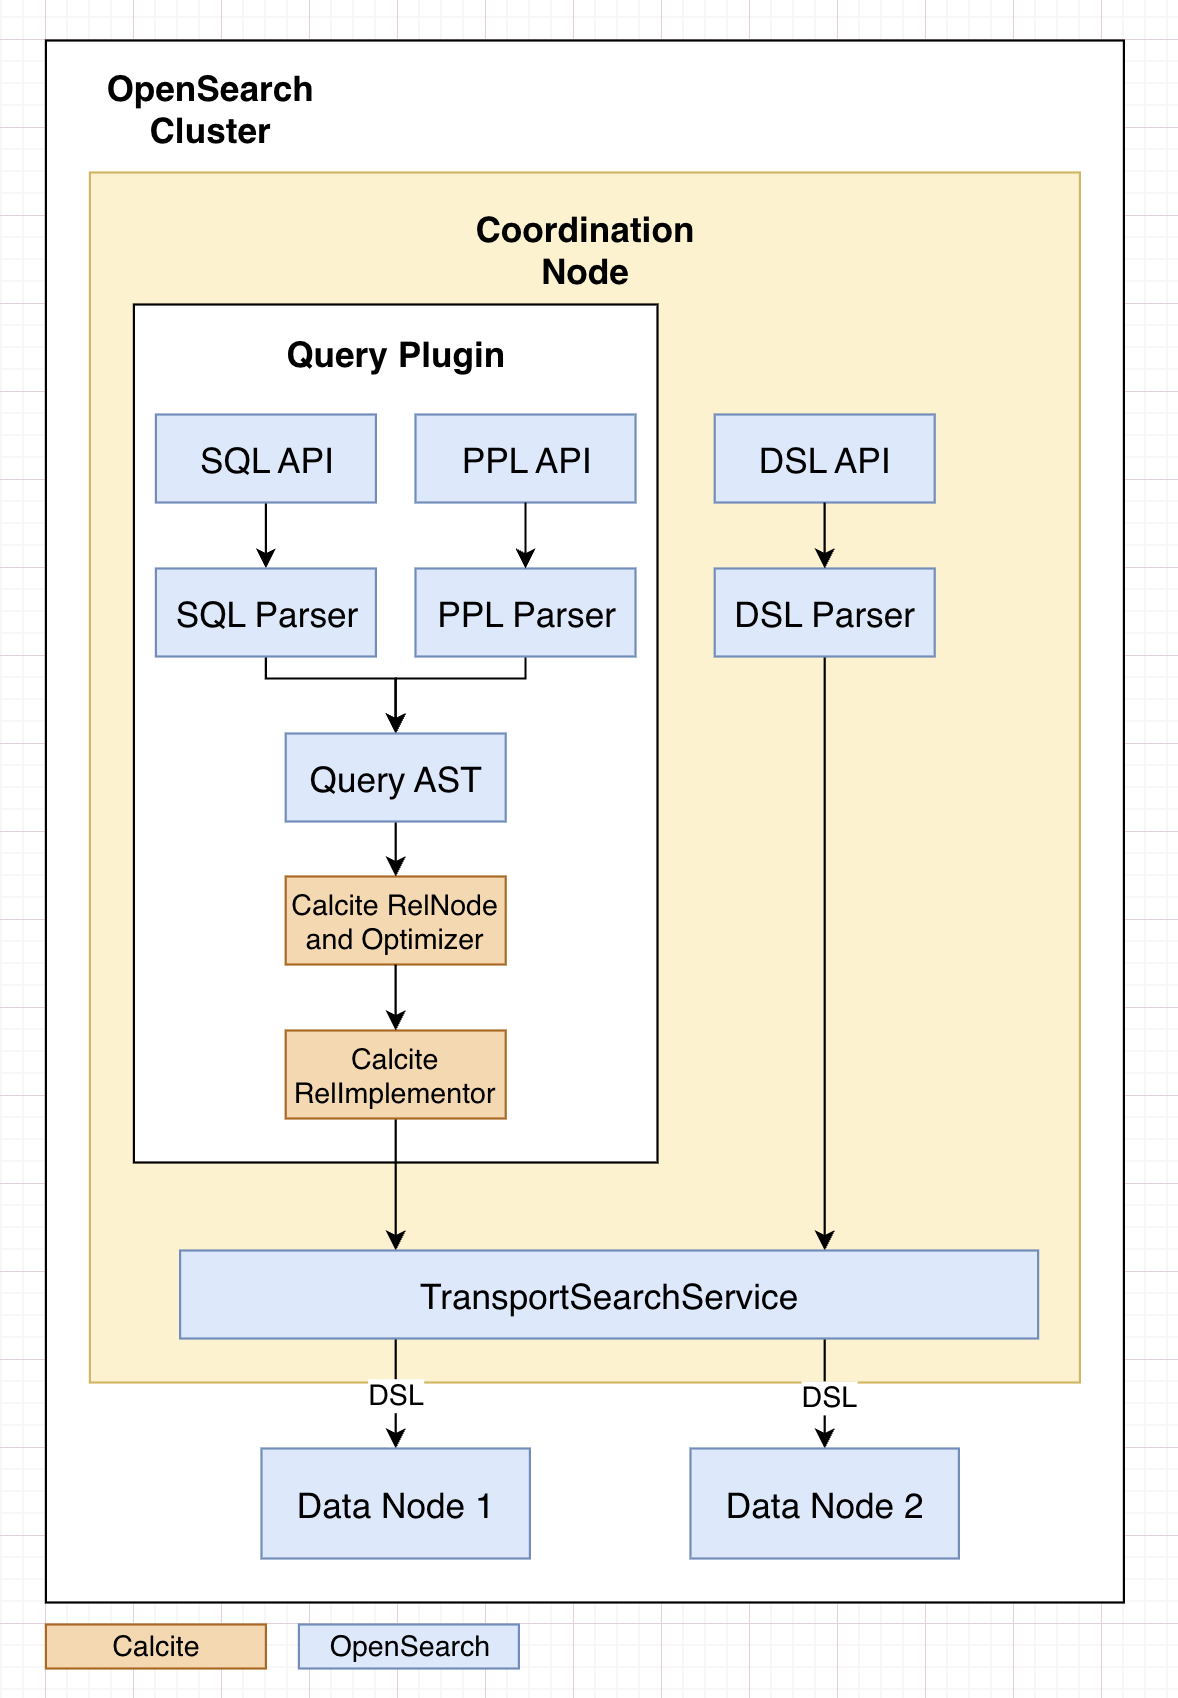
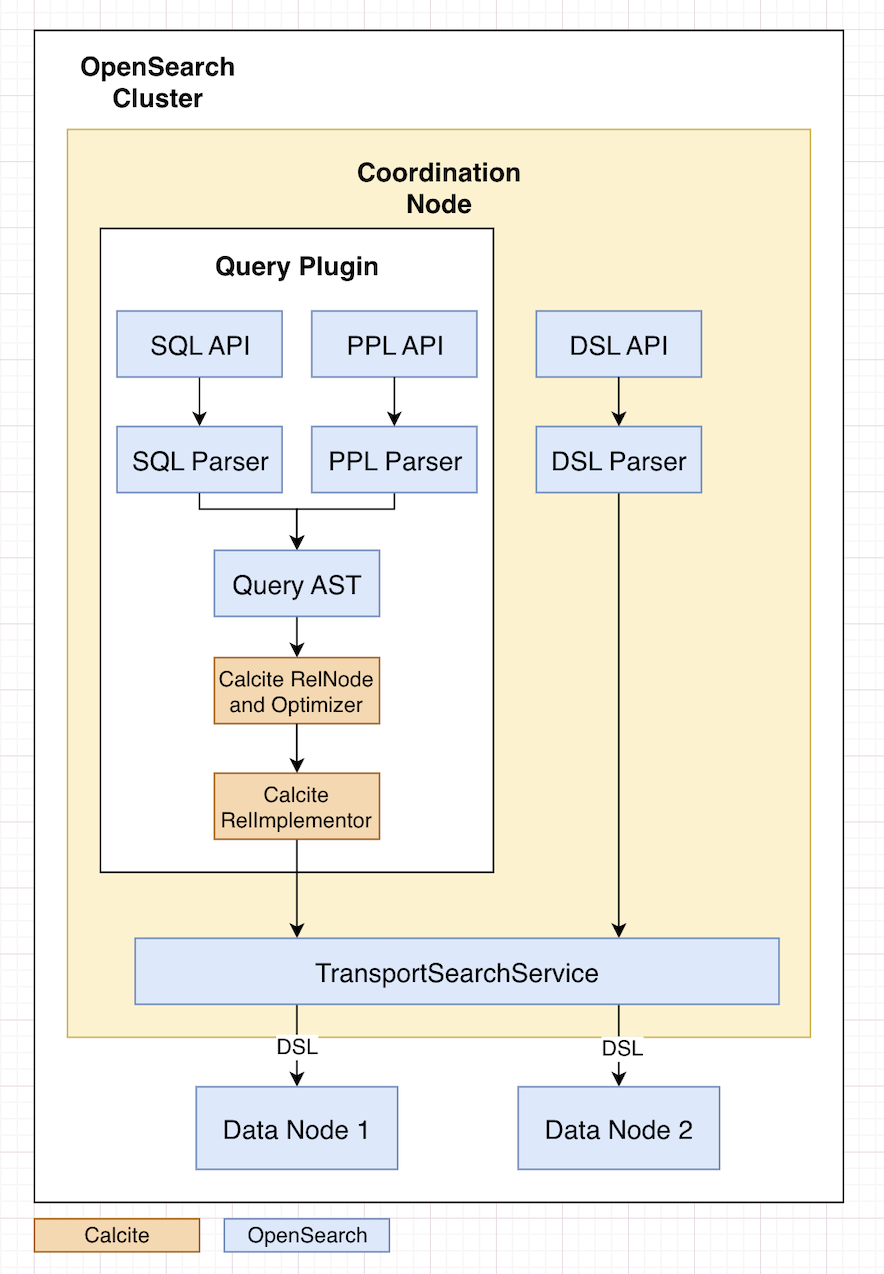
Update

diff --git a/_posts/2025-05-30-Enhanced-Log-Analytics-with-Lookup-Join-and-Subsearch.md b/_posts/2025-05-30-Enhanced-Log-Analytics-with-Lookup-Join-and-Subsearch.md
@@ -1,48 +1,45 @@
-# [DRAFT] **OpenSearch 3.0 PPL Released: Enhanced Log Analytics with Lookup, Join, and Subsearch**
+# OpenSearch 3.0 PPL Released: Enhanced Log Analytics with Lookup, Join, and Subsearch
 
-OpenSearch 3.0 introduces powerful new capabilities to Piped Processing Language (PPL) with the addition of `lookup`, `join`, and `subsearch` commands. These features enable users—especially those in observability and security domains—to enrich, correlate, and filter logs more efficiently across large datasets. For example, security engineers can now join authentication and application logs to investigate incidents or use lookup to enrich logs with geo-context in real time.
+OpenSearch 3.0 introduces powerful new capabilities to Piped Processing Language (PPL) with the addition of `lookup`, `join`, and `subsearch` commands. These features enable users—especially those in observability and log analytics domains—to enrich, correlate, and filter logs more efficiently across large datasets. For example, engineers can now join authentication and application logs to investigate incidents or use lookup to enrich logs with geo-context in real time.
 Backed by Apache Calcite, these enhancements also bring improved query planning and execution, laying the groundwork for more advanced analytics capabilities in future releases. This release marks a significant step forward in making PPL a more expressive and performant language for interactive data exploration.
 To learn more, see [PPL Command Reference](https://docs.opensearch.org/docs/latest/search-plugins/sql/ppl/functions/).
 
-## **New Features in OpenSearch 3.0 PPL: Lookup, Join, and Subsearch**
+## New Features in OpenSearch 3.0 PPL: Lookup, Join, and Subsearch
 
-Security analysts are often faced with the daunting task of sifting through vast amounts of log data to identify and respond to potential threats. The introduction of OpenSearch 3.0 PPL's `lookup`, `join`, and `subsearch` commands has revolutionized this process, enabling analysts to perform complex queries with ease and efficiency.
+Log analysts are often faced with the daunting task of shifting through vast amounts of log data to identify and respond to potential threats. The introduction of OpenSearch 3.0 PPL's `lookup`, `join`, and `subsearch` commands has revolutionized this process, enabling analysts to perform complex queries with ease and efficiency.
 
 ### Understanding the Dataset
 
 Before diving into the queries, it's essential to understand the structure of the datasets involved. Here are two sample datasets:
 
-* Authentication Logs (**auth_logs**), **** This dataset records user login attempts, capturing details such as:
+* Authentication Logs (auth_logs), This dataset records user login attempts, capturing details such as:
 
 |timestamp	|user_id	|status	|ip_address	|
 |---	|---	|---	|---	|
 |2024-04-29T10:00:00Z	|jdoe	|success	|192.168.1.1	|
-|---	|---	|---	|---	|
 |2024-04-29T10:05:00Z	|asmith	|failed	|192.168.1.2	|
 |2024-04-29T10:10:00Z	|jdoe	|success	|192.168.1.1	|
 
-* Application Logs (**`app_logs`**)**,** This dataset captures user interactions with applications, including:
+* Application Logs (`app_logs`), This dataset captures user interactions with applications, including:
 
 |timestamp	|user_id	|action	|session_id	|
 |---	|---	|---	|---	|
 |2024-04-29T10:00:05Z	|jdoe	|login	|abc123	|
-|---	|---	|---	|---	|
 |2024-04-29T10:05:10Z	|asmith	|login	|def456	|
 |2024-04-29T10:10:15Z	|jdoe	|logout	|abc123	|
 
-* **User Information (`user_info`),** This reference dataset provides additional context about users:
+* User Information (`user_info`), This reference dataset provides additional context about users:
 
 |user_id	|department	|role	|
 |---	|---	|---	|
 |jdoe	|HR	|Manager	|
-|---	|---	|---	|
 |asmith	|IT	|Analyst	|
 
 ### Querying the Data
 
 The `lookup`, `join`, and `subsearch` commands are experimental features. To use them, enable Calcite in your OpenSearch instance by running the following command:
 
-```
+``` shell
 curl -H 'Content-Type: application/json' -X PUT localhost:9200/_plugins/_query/settings -d '{
   "transient" : {
     "plugins.calcite.enabled" : true
@@ -66,7 +63,6 @@ Result:
 |timestamp	|user_id	|status	|ip_address	|department	|
 |---	|---	|---	|---	|---	|
 |2024-04-29T10:05:00Z	|asmith	|failed	|192.168.1.2	|IT	|
-|---	|---	|---	|---	|---	|
 
 #### Correlating Authentication and Application Logs
 
@@ -85,13 +81,12 @@ Result
 |timestamp	|user_id	|action	|status	|
 |---	|---	|---	|---	|
 |2024-04-29T10:00:00Z	|jdoe	|login	|success	|
-|---	|---	|---	|---	|
 |2024-04-29T10:05:00Z	|asmith	|login	|failed	|
 |2024-04-29T10:10:00Z	|jdoe	|logout	|success	|
 
 #### Investigating Suspicious Activities
 
-To detect potential security incidents, we can identify users who have failed login attempts and then performed sensitive actions. This query highlights users who may have attempted unauthorized actions, enabling timely intervention.
+To detect potential incidents, we can identify users who have failed login attempts and then performed sensitive actions. This query highlights users who may have attempted unauthorized actions, enabling timely intervention.
 **Query:**
 
 ```
@@ -104,7 +99,6 @@ source=auth_logs
 |timestamp	|user_id	|status	|
 |---	|---	|---	|
 |2024-04-29T10:05:00Z	|asmith	|failed	|
-|---	|---	|---	|
 
 ### **When to Use Which Command?**
 
@@ -120,7 +114,7 @@ OpenSearch PPL 3.0 integrates Apache Calcite, a robust SQL parsing and optimizat
 
 The current PPL grammar and existing query AST have widely used (both in OpenSearch PPL and PPL-on-Spark). The ANTLR4 grammar is used in polyglot validators in fronted and backend (Java validator, J/S validator, Python validator). To keep the ANTLR4 grammar and reuse existing AST, the architecture of integration looks
 
-![Query Lifecycle](/assets/media/blog-images/2025-05-30-Enhanced-Log-Analytics-with-Lookup,-Join-and-Subsearch/query_lifecycle.png){:class="img-centered"}
+![Query Lifecycle](/assets/media/blog-images/2025-05-30-Enhanced-Log-Analytics-with-Lookup-Join-and-Subsearch/query_lifecycle.png){:class="img-centered"}
 
 The query processing consists of several transformation stages, converting the original query text through different intermediate representations before final execution. Here are the key stages:
 
@@ -128,15 +122,15 @@ The query processing consists of several transformation stages, converting the o
 
 The SQL query text is first parsed by ANTLR4, which converts the raw query statement into a parse tree. This parse tree is then transformed into an Abstract Syntax Tree (AST), representing the hierarchical syntactic structure of the query in a more abstract form.
 
-1. Plan Conversion
+2. Plan Conversion
 
 The AST is transformed into Calcite's RelNode tree through RelBuilder and a series of visitors.. RelNode is Calcite's internal representation of relational operations, forming a logical plan tree where each node represents a relational algebra operation (e.g., filter, project, join). 
 
-1. Optimization and Transformation
+3. Optimization and Transformation
 
 The RelNode tree undergoes optimization through Calcite's optimizer, applying various transformation rules. The optimized RelNode tree is then converted to OpenSearchEnumerableRel nodes, which are OpenSearch-specific implementations of Calcite's relational operators that can be mapped to Linq4j expressions.
 
-1. Code Generation and Execution
+4. Code Generation and Execution
 
 Linq4j serves as a bridge framework, providing templates and expressions to transform relational operators into executable Java code. This code processes data in a row-by-row manner in memory. For performance optimization, when possible, operators or sub-trees of the plan (such as filters and aggregations) are pushed down and converted into native OpenSearch QueryBuilder API calls, which are then executed directly by the OpenSearch engine.
 
@@ -172,8 +166,6 @@ In this plan, Calcite identifies the need to filter records where the `status` i
 The physical plan describes how the operations in the logical plan will be executed, detailing the specific steps and strategies used. After optimization, the physical plan might appear as follows:
 
 ```
-bash
-Copy
 EnumerableCalc(expr#0..5=[{inputs}], proj#0..4=[{exprs}])
   EnumerableMergeJoin(condition=[=($1, $5)], joinType=[left])
     EnumerableSort(sort0=[$1], dir0=[ASC])
